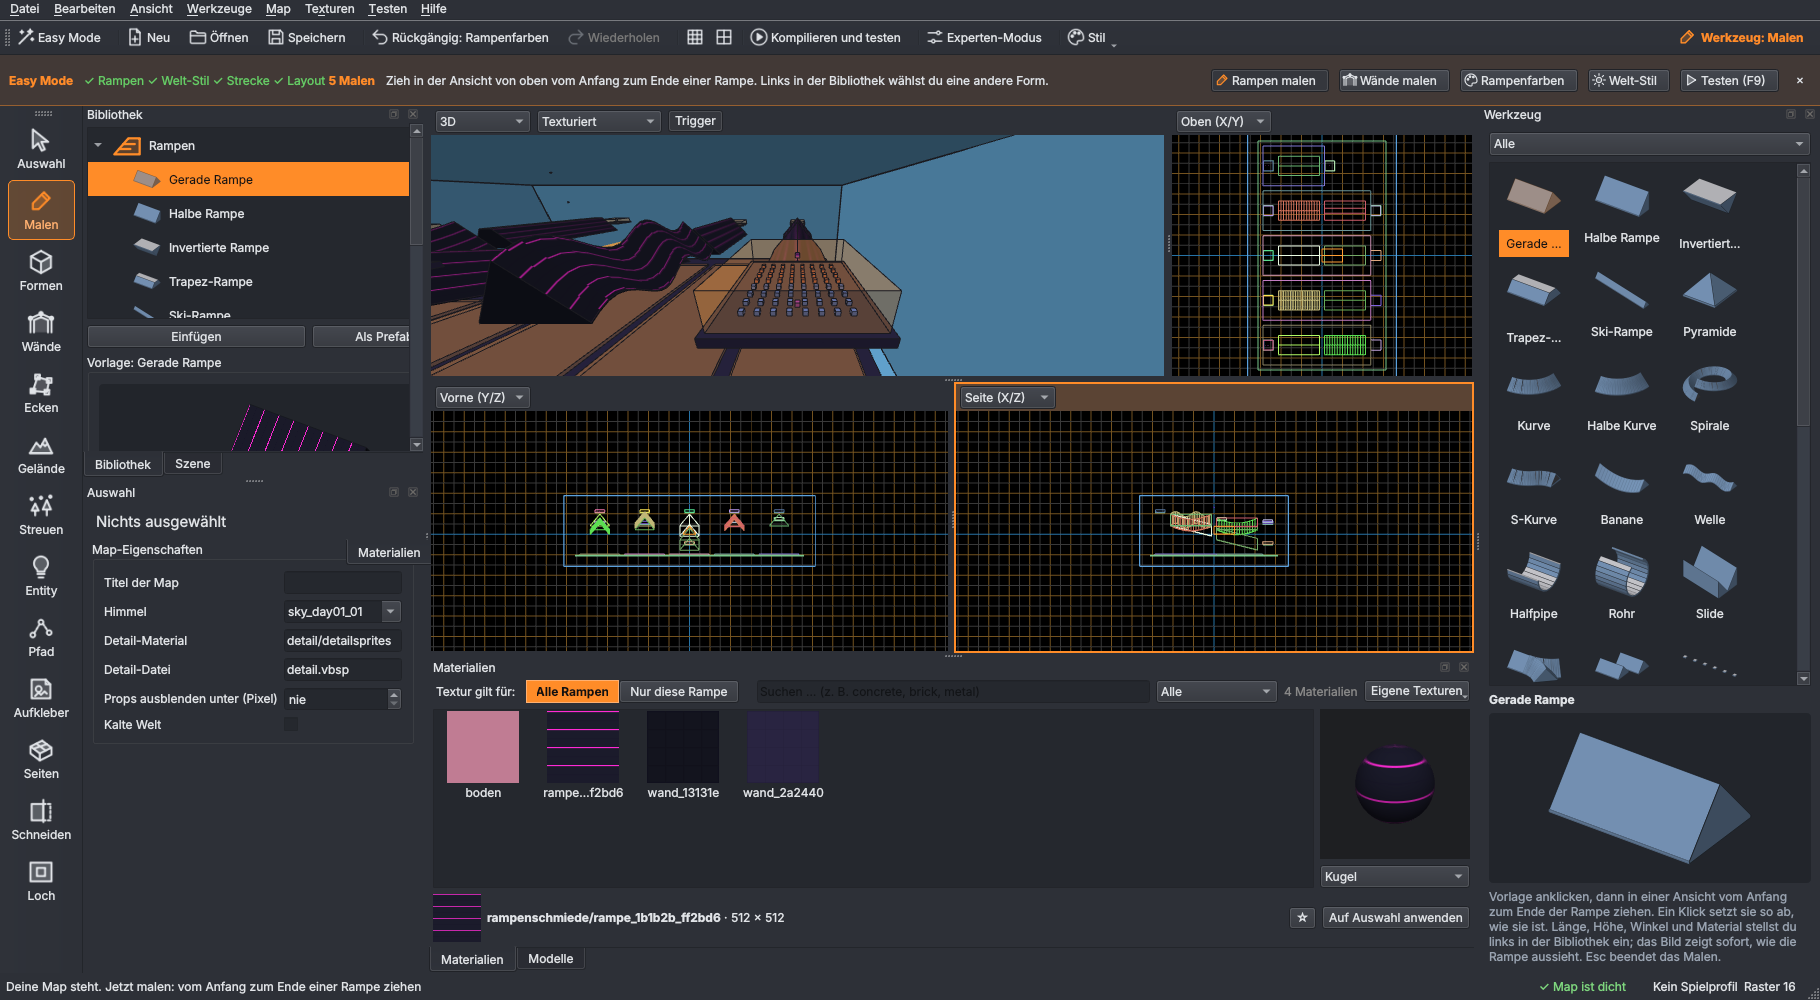
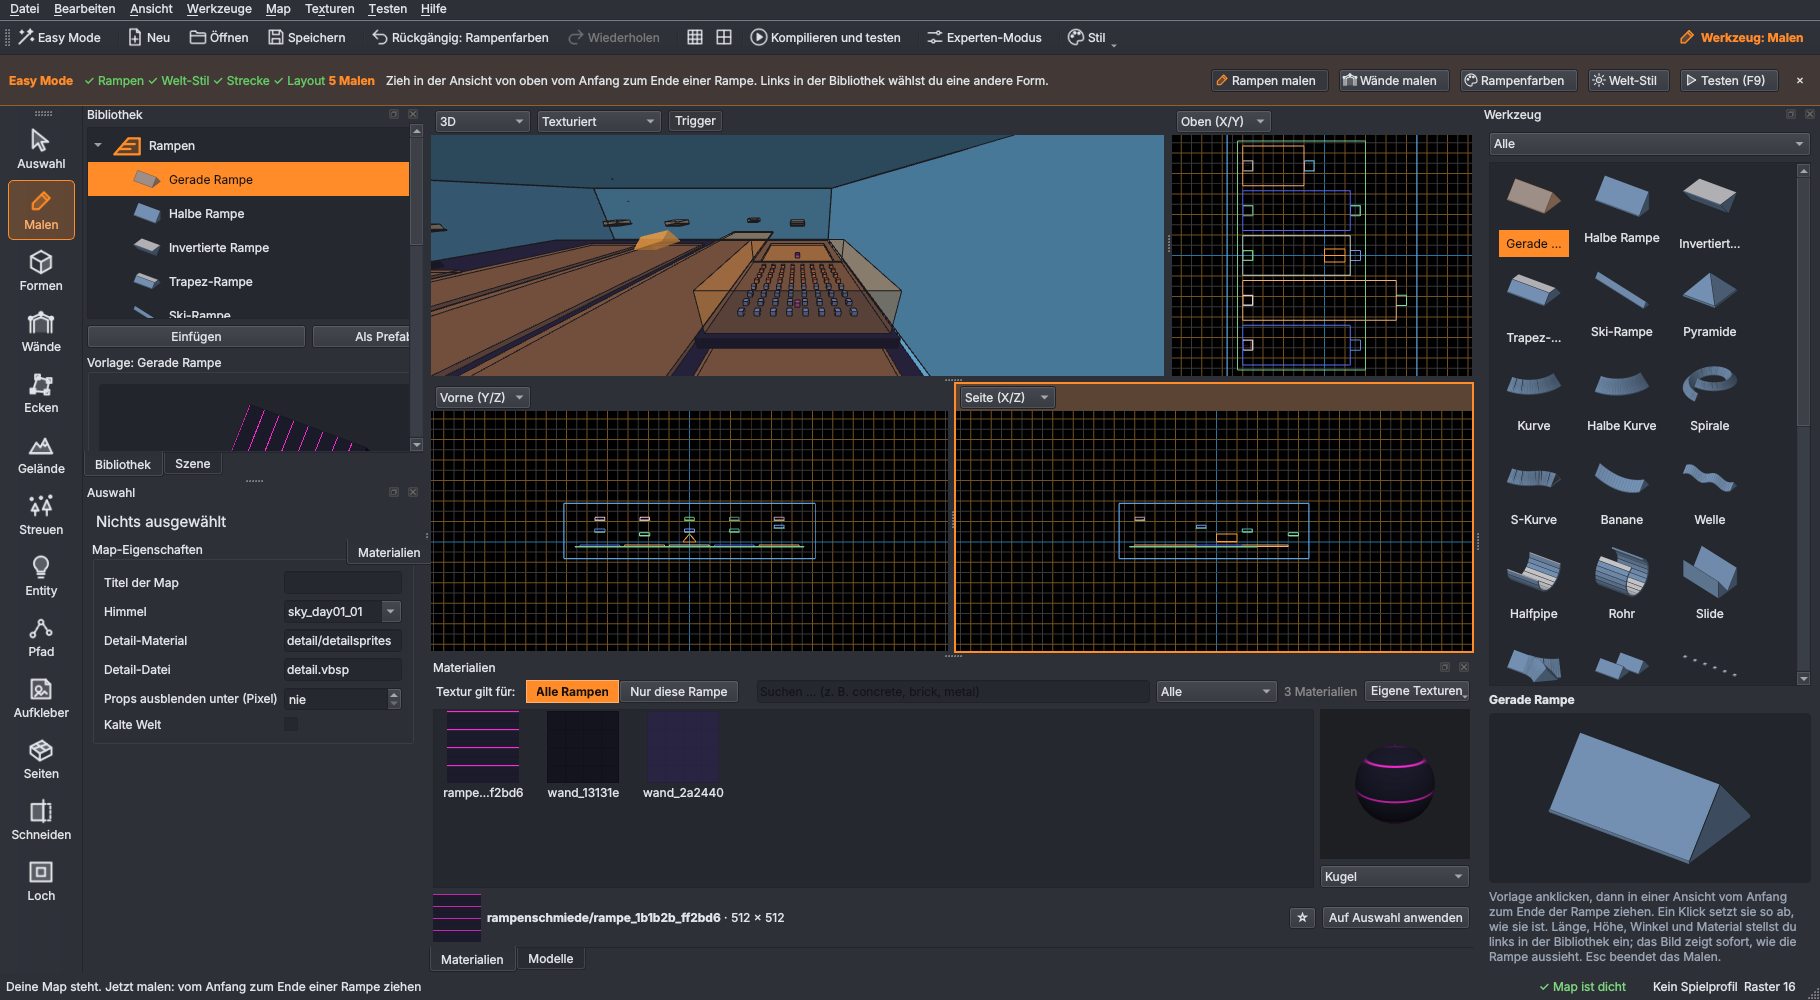
Easy Mode baut nur den Rahmen, Rampen malt man selbst (0.26.1)
Der Assistent legt Start, Stages mit Zonen und Teleportern und die Hülle an
und lässt je Stage freien Platz. Keine vorab festgelegten oder abwechselnden
Rampen mehr; die Form wählt man beim Malen. Der Layout-Manager fragt nur
Name und Platz je Stage, der Plan zeigt den Platz gestrichelt.

Claude-Session: https://claude.ai/code/session_01DJAQrgKBCUycDaenp66hwA

diff --git a/src/rampenschmiede/ui/dialogs/easy_mode.py b/src/rampenschmiede/ui/dialogs/easy_mode.py
@@ -44,10 +44,9 @@ from PySide6.QtWidgets import (
 from ...core.materials.authoring import RGB
 from ...core.materials.styles import STYLE_BY_KEY, STYLES, WorldStyle
 from ...core.surf.catalog import CATALOG
-from ...core.templates import RAMP_KINDS, CourseSpec, PlanItem, SurfMapSettings, plan_surf_map
+from ...core.templates import CourseSpec, PlanItem, SurfMapSettings, plan_surf_map
 from ...i18n import N_
 from ..icons import ACTIVE
-from ..widgets.template_preview import template_pixmap
 from .ramp_assistant import PRESETS, _ColorButton, pil_pixmap, textured_ramp
 from .surf_wizard import GAMES
 from .world_styles import StyleGallery, style_preview
@@ -344,7 +343,7 @@ class CoursePage(QWidget):
         form = QFormLayout()
         self.stages = _spin(1, 12, d.stages)
         self.ramps = _spin(1, 8, d.ramps_per_stage)
-        self.ramps_label = QLabel(self.tr("Rampen pro Stage"))
+        self.ramps_label = QLabel(self.tr("Platz für Rampen pro Stage"))
         self.stages_label = QLabel(self.tr("Stages"))
         self.bonuses = _spin(0, 4, 0)
         self.difficulty = QComboBox()
@@ -399,7 +398,7 @@ class CoursePage(QWidget):
     def _kind_toggled(self, staged: bool) -> None:
         self.stages.setVisible(staged)
         self.stages_label.setVisible(staged)
-        self.ramps_label.setText(self.tr("Rampen pro Stage") if staged else self.tr("Rampen"))
+        self.ramps_label.setText(self.tr("Platz für Rampen pro Stage") if staged else self.tr("Platz für Rampen"))
         # Linear: eine lange Strecke mit mehr Rampen; zurück zu Stages: wieder wenige je Stage
         if not staged and self.ramps.value() < 4:
             self.ramps.setValue(6)
@@ -474,12 +473,23 @@ class LayoutPlan(QWidget):
             if item.kind == "ramp":
                 # Jede Rampenform eigene Farbe: man sieht, dass die Rampen abwechseln
                 color = KIND_COLORS.get(item.label, color)
-            p.setPen(QPen(color.darker(160), 1))
-            p.setBrush(color)
+            if item.kind == "space":
+                # Leerer Platz, auf den man die Rampen selbst malt
+                p.setPen(QPen(QColor(255, 140, 40, 200), 1.5, Qt.DashLine))
+                p.setBrush(QColor(255, 140, 40, 28))
+            else:
+                p.setPen(QPen(color.darker(160), 1))
+                p.setBrush(color)
             p.drawRoundedRect(rect(item.rect), 3, 3)
         p.setPen(QColor(235, 238, 242))
         for item in self.items:
-            if item.kind == "ramp" and item.label in CATALOG:
+            if item.kind == "space":
+                r = rect(item.rect)
+                if r.width() > 50:
+                    p.setPen(QColor(255, 170, 90))
+                    p.drawText(r, Qt.AlignCenter | Qt.TextWordWrap, self.tr("Rampe malen"))
+                    p.setPen(QColor(235, 238, 242))
+            elif item.kind == "ramp" and item.label in CATALOG:
                 r = rect(item.rect)
                 if r.width() > 40:
                     p.setPen(QColor(20, 22, 26))
@@ -496,14 +506,13 @@ class LayoutPlan(QWidget):
 
 
 class _Course:
-    """Eine Zeile im Layout-Manager: Stage oder Bonus mit Name, Rampenzahl und einer Form je Rampe."""
+    """Eine Zeile im Layout-Manager: Stage oder Bonus mit Name und Platz für Rampen."""
 
     def __init__(self, track: int, item: QTreeWidgetItem, name: QLineEdit, count: QSpinBox) -> None:
         self.track = track
         self.item = item
         self.name = name
         self.count = count
-        self.kinds: list[QComboBox] = []
 
 
 class LayoutPage(QWidget):
@@ -513,16 +522,18 @@ class LayoutPage(QWidget):
         super().__init__(parent)
         lay = QVBoxLayout(self)
         lay.addWidget(_title(self.tr("4. Layout-Manager: So liegt deine Map")))
-        lay.addWidget(_hint(self.tr("Gib jeder Stage und jedem Bonus einen Namen und wähle für jede Rampe ihre Form. "
-                                    "Der Plan rechts zeigt die Map von oben, jede Rampe mit ihrem Namen.")))
+        lay.addWidget(_hint(self.tr("Gib jeder Stage und jedem Bonus einen Namen und sag, wie viel Platz sie für "
+                                    "Rampen braucht. Die Rampen selbst malst du danach, so wie du sie haben willst. "
+                                    "Gestrichelt im Plan: dort malst du.")))
         body = QHBoxLayout()
         left = QVBoxLayout()
         self.tree = QTreeWidget()
         self.tree.setColumnCount(2)
-        self.tree.setHeaderLabels([self.tr("Name"), self.tr("Rampen / Form")])
+        self.tree.setHeaderLabels([self.tr("Name"), self.tr("Platz für Rampen")])
         self.tree.header().setSectionResizeMode(0, QHeaderView.Stretch)
         self.tree.header().setSectionResizeMode(1, QHeaderView.Stretch)
         self.tree.setSelectionMode(QAbstractItemView.NoSelection)
+        self.tree.setRootIsDecorated(False)
         self.tree.setMinimumWidth(420)
         left.addWidget(self.tree, 1)
         arrange = QFormLayout()
@@ -552,8 +563,6 @@ class LayoutPage(QWidget):
 
         self.courses: list[_Course] = []
         self.linear = False
-        #: Form neuer Rampen (aus Schritt 1)
-        self.default_kind = "gerade"
         self.layout_combo.currentIndexChanged.connect(lambda *_: self.changed.emit())
         self.add_stage.clicked.connect(lambda: self._add(0))
         self.remove_stage.clicked.connect(lambda: self._remove(0))
@@ -584,27 +593,6 @@ class LayoutPage(QWidget):
         self.add_bonus.setEnabled(len(self._of(True)) < 4)
         self.layout_combo.setEnabled(not self.linear and stages > 1)
 
-    def _kind_combo(self, kind: str) -> QComboBox:
-        combo = QComboBox()
-        for key in RAMP_KINDS:
-            combo.addItem(QIcon(template_pixmap(key, None, 32)), self.tr(CATALOG[key].name), key)
-        combo.setCurrentIndex(max(0, combo.findData(kind)))
-        combo.currentIndexChanged.connect(lambda *_: self.changed.emit())
-        return combo
-
-    def _set_count(self, course: _Course, n: int) -> None:
-        """Eine Unterzeile je Rampe: „Rampe 1  [Form]“. Neue Rampen nehmen die Form der vorigen."""
-        while len(course.kinds) < n:
-            kind = course.kinds[-1].currentData() if course.kinds else self.default_kind
-            child = QTreeWidgetItem(course.item, [self.tr("Rampe {0}").format(len(course.kinds) + 1)])
-            combo = self._kind_combo(kind)
-            self.tree.setItemWidget(child, 1, combo)
-            course.kinds.append(combo)
-        while len(course.kinds) > n:
-            course.kinds.pop()
-            course.item.removeChild(course.item.child(course.item.childCount() - 1))
-        course.item.setExpanded(True)
-
     def _insert(self, track: int, spec: CourseSpec) -> None:
         index = len(self.courses) if track else len(self._of(False))
         item = QTreeWidgetItem()
@@ -612,14 +600,12 @@ class LayoutPage(QWidget):
         name = QLineEdit(spec.name)
         name.textChanged.connect(lambda *_: self.changed.emit())
         count = _spin(1, 12 if self.linear and not track else 8, spec.ramps, suffix=self.tr(" Rampen"))
+        count.setToolTip(self.tr("So viel Platz bekommt die Stage: je Rampe eine Rampenlänge"))
         course = _Course(1 if track else 0, item, name, count)
         self.courses.insert(index, course)
         self.tree.setItemWidget(item, 0, name)
         self.tree.setItemWidget(item, 1, count)
-        self._set_count(course, spec.ramps)
-        for combo, kind in zip(course.kinds, spec.kinds):
-            combo.setCurrentIndex(max(0, combo.findData(kind)))
-        count.valueChanged.connect(lambda n, c=course: (self._set_count(c, n), self.changed.emit()))
+        count.valueChanged.connect(lambda *_: self.changed.emit())
 
     def _add(self, track: int) -> None:
         self._insert(track, CourseSpec(ramps=1 if track else 2))
@@ -661,8 +647,7 @@ class LayoutPage(QWidget):
     def specs(self) -> tuple[tuple[CourseSpec, ...], tuple[CourseSpec, ...]]:
         stages, bonuses = [], []
         for c in self.courses:
-            kinds = tuple(k.currentData() for k in c.kinds)
-            spec = CourseSpec(c.name.text().strip(), len(kinds), kinds[0] if kinds else "", kinds)
+            spec = CourseSpec(c.name.text().strip(), c.count.value())
             (bonuses if c.track else stages).append(spec)
         return tuple(stages), tuple(bonuses)
 
@@ -678,8 +663,8 @@ class LayoutPage(QWidget):
         else:
             xs = [c for i in items for c in (i.rect[0], i.rect[2])]
             ys = [c for i in items for c in (i.rect[1], i.rect[3])]
-            ramps = sum(1 for i in items if i.kind == "ramp")
-            self.size_label.setText(self.tr("✓ Passt: {0} Rampen, etwa {1} × {2} Units (Source erlaubt 32768)").format(
+            ramps = sum(1 for i in items if i.kind in ("ramp", "space"))
+            self.size_label.setText(self.tr("✓ Passt: Platz für {0} Rampen, etwa {1} × {2} Units (Source erlaubt 32768)").format(
                 ramps, round(max(xs) - min(xs)), round(max(ys) - min(ys))))
             self.size_label.setStyleSheet("color: #6c6; font-weight: bold;")
         return error
@@ -692,10 +677,10 @@ class PaintPage(QWidget):
         super().__init__(parent)
         lay = QVBoxLayout(self)
         lay.addWidget(_title(self.tr("5. Jetzt deine Map malen")))
-        lay.addWidget(_hint(self.tr("Mit „Map bauen“ entsteht deine Strecke: Start mit Spawn, Stages, Zonen, "
-                                    "Teleporter und eine dichte Skybox. Danach ist das Malen-Werkzeug mit deiner "
-                                    "Rampe aktiv: Zieh in einer Ansicht vom Anfang zum Ende, und die Rampe ist da. "
-                                    "Oben führt dich eine Leiste durch die nächsten Schritte.")))
+        lay.addWidget(_hint(self.tr("Mit „Map bauen“ entsteht der Rahmen deiner Map: Start mit Spawn, Stages mit "
+                                    "Zonen und Teleportern, eine dichte Skybox. Die Rampen malst du selbst: Form links "
+                                    "anklicken, in der Ansicht vom Anfang zum Ende ziehen. Für jede Rampe kannst du "
+                                    "eine andere Form nehmen. Oben führt dich eine Leiste durch die nächsten Schritte.")))
         body = QHBoxLayout()
         self.summary = QLabel()
         self.summary.setWordWrap(True)
@@ -820,6 +805,7 @@ class EasyModeWizard(QDialog):
 
     def settings(self) -> SurfMapSettings:
         s = self.course.base_settings("gerade")
+        s.with_ramps = False  # nur der Rahmen, die Rampen malt man selbst
         stages, bonuses = self.layout_page.specs()
         s.stage_specs = stages
         s.stages = len(stages)
@@ -838,9 +824,7 @@ class EasyModeWizard(QDialog):
         stages, bonuses = s.stage_specs, s.bonuses
         names = ", ".join(spec.name or self.tr("Stage {0}").format(i) for i, spec in enumerate(stages, 1))
         rows = [
-            (self.tr("Rampen"), self.tr("{0}, Textur „{1}“").format(
-                ", ".join(self.tr(CATALOG[k].name) for k in s.kinds_used()),
-                                                                    self.ramps.texture_name())),
+            (self.tr("Rampen"), self.tr("Textur „{0}“, du malst sie selbst").format(self.ramps.texture_name())),
             (self.tr("Welt-Stil"), self.tr(style.name)),
             (self.tr("Strecke"), self.tr("Linear mit {0} Rampen").format(stages[0].ramps) if self.course.is_linear()
              else self.tr("{0} Stages: {1}").format(len(stages), names)),
@@ -851,7 +835,7 @@ class EasyModeWizard(QDialog):
         ]
         self.paint.summary.setText("<table cellspacing=6>" + "".join(
             f"<tr><td><b>{k}</b></td><td>{v}</td></tr>" for k, v in rows) + "</table>")
-        self.paint.preview.show_ramps(s.kinds_used()[:4], ramp, lines, style)
+        self.paint.preview.show_ramps(list(PREVIEW_KINDS), ramp, lines, style)
         self.paint.plan.set_plan(self.layout_page.plan.items, self.layout_page.plan.error)
 
     def choice(self) -> EasyResult:

diff --git a/tests/ui/test_easy_mode_ui.py b/tests/ui/test_easy_mode_ui.py
@@ -42,14 +42,9 @@ def test_wizard_walks_through_the_steps_and_plans_the_map(qtbot):
     assert dlg.stack.currentIndex() == 3
     page = dlg.layout_page
     assert len(page.courses) == 5 and [c.track for c in page.courses] == [0, 0, 0, 1, 1]
-    # Jede Rampe steht einzeln da und bekommt ihre eigene Form
     first = page.courses[0]
-    assert first.item.childCount() == 2 and first.item.child(0).text(0) == "Rampe 1"
     first.name.setText("Eingang")
-    first.kinds[1].setCurrentIndex(first.kinds[1].findData("banane"))
     page.courses[1].count.setValue(3)
-    assert len(page.courses[1].kinds) == 3
-    page.courses[1].kinds[2].setCurrentIndex(page.courses[1].kinds[2].findData("ski"))
     page.courses[3].name.setText("Kurz")
     dlg.layout_page.layout_combo.setCurrentIndex(1)
     dlg._update_plan()
@@ -63,8 +58,9 @@ def test_wizard_walks_through_the_steps_and_plans_the_map(qtbot):
     assert choice.style == "neon" or choice.style  # sechster Stil
     assert s.layout == "reihen" and s.angle == DIFFICULTY["schwer"][1]
     assert [st.name for st in s.stage_specs] == ["Eingang", "", ""]
-    assert s.stage_specs[0].kinds == ("gerade", "banane")
-    assert s.stage_specs[1].kinds == ("gerade", "gerade", "ski") and s.stage_specs[1].ramps == 3
+    # Nur der Rahmen: Die Rampen malt man selbst, die Stages haben Platz dafür
+    assert not s.with_ramps and s.stage_specs[1].ramps == 3
+    assert any(i.kind == "space" for i in page.plan.items) and not any(i.kind == "ramp" for i in page.plan.items)
     assert [b.name for b in s.bonuses] == ["Kurz", ""]
 
 
@@ -94,13 +90,14 @@ def test_easy_map_is_built_styled_and_ready_to_paint(window, qtbot):
     assert window.easy_bar.buttons["start"].isVisibleTo(window.easy_bar)
     assert not window.easy_bar.buttons["paint"].isVisibleTo(window.easy_bar)
     _name, ramp, lines, _wall = PRESETS[1]
-    settings = SurfMapSettings(game="css", stage_specs=(CourseSpec("Eingang", 1, kinds=("welle",)), CourseSpec("", 1)),
+    settings = SurfMapSettings(game="css", with_ramps=False, stage_specs=(CourseSpec("Eingang", 1), CourseSpec("", 1)),
                                bonuses=(CourseSpec("Kurz", 1),))
     assert window.build_easy_map(EasyResult(ramp, lines, "eis", settings))
     doc = window.editor.doc
     assert window.seal.check_now().sealed
     assert window.editor.tool.name == "paint"
-    assert window.library.current_key() == "welle"
+    assert window.library.current_key() == "gerade"
+    assert not any((block_info(e) or {}).get("template") in ("gerade", "welle") for e in doc.entities())
     theme = get_theme(doc)
     assert theme.colors["ramp"] == "#{:02x}{:02x}{:02x}".format(*ramp)
     names = {parse_zone_name(e.get("targetname") or ""): (block_info(e) or {}).get("values", {}).get("name")

diff --git a/src/rampenschmiede/core/templates/surf_map.py b/src/rampenschmiede/core/templates/surf_map.py
@@ -79,6 +79,9 @@ class SurfMapSettings:
     stage_specs: tuple[CourseSpec, ...] = ()
     #: Bonus-Strecken (Bonus 1, 2, …), jede in einer eigenen Reihe
     bonuses: tuple[CourseSpec, ...] = field(default_factory=tuple)
+    #: False: nur der Rahmen (Plattformen, Zonen, Teleporter, Hülle); den Platz für die Rampen
+    #: malt man selbst (Easy Mode). `ramps` zählt dann die Rampen-Plätze einer Stage.
+    with_ramps: bool = True
 
     def stage_list(self) -> list[CourseSpec]:
         if self.stage_specs:
@@ -208,10 +211,10 @@ def new_surf_map(doc: MapDocument, s: SurfMapSettings, plan: list[PlanItem] | No
             kind = s.kind_of(spec, index)
             values, height, drop_along = _ramp_setup(s, kind)
             anchor_z = int(ramp_top - height)
-            if not _plan_only:
+            if s.with_ramps and not _plan_only:
                 ramp, _gen = build_block(doc, kind, values, Placement(x, y, anchor_z, 0))
                 objs.extend(ramp)
-            note("ramp", x, y, x + s.ramp_length, half_w, kind, track)
+            note("ramp" if s.with_ramps else "space", x, y, x + s.ramp_length, half_w, kind, track)
             lowest = min(lowest, anchor_z + min(0, drop_along))
             x += s.ramp_length + s.gap
             ramp_top += drop_along - s.drop

diff --git a/tests/templates/test_surf_map_layout.py b/tests/templates/test_surf_map_layout.py
@@ -85,3 +85,14 @@ def test_every_ramp_gets_the_shape_chosen_for_it():
     placed = sorted(((block_info(e)["placement"][1], block_info(e)["placement"][0]), block_info(e)["template"])
                     for e in doc.entities() if (block_info(e) or {}).get("template") in ("gerade", "banane", "welle", "ski"))
     assert [k for _pos, k in placed] == ["gerade", "gerade", "welle", "ski", "banane"]
+
+
+def test_frame_only_leaves_room_to_paint_ramps():
+    doc = build(game="css", stages=3, ramps_per_stage=2, with_ramps=False, bonuses=(CourseSpec("", 1),))
+    assert check_seal(doc).sealed
+    assert not any((block_info(e) or {}).get("template") in ("gerade", "banane", "welle", "ski", "trapez")
+                   for e in doc.entities())
+    z = zones(doc)
+    assert {("start", 0, 0), ("stage", 0, 2), ("stage", 0, 3), ("end", 0, 0), ("start", 1, 0)} <= set(z)
+    # Fall-Teleporter decken den Platz für die Rampen ab
+    assert sum(1 for e in doc.entities() if e.classname == "trigger_teleport") == 4

diff --git a/src/rampenschmiede/ui/main_window.py b/src/rampenschmiede/ui/main_window.py
@@ -807,7 +807,8 @@ class MainWindow(QMainWindow):
                                                walls=False, remember=True))
         self.editor.stack.set_clean()
         self.editor.set_selection(())
-        self.library.select_template(result.settings.kinds_used()[0])
+        # Rampen malt man selbst: Malen mit der geraden Rampe vorgewählt, jede andere Form ist einen Klick weg
+        self.library.select_template("gerade")
         self.editor.set_tool("paint")
         self.settings.setValue("easy_welcome_done", "true")
         self.easy_bar.guide("paint")

diff --git a/src/rampenschmiede/__init__.py b/src/rampenschmiede/__init__.py
@@ -1,3 +1,3 @@
 """Rampenschmiede: Map-Editor für Surf-, Bhop- und Trick-Maps."""
 
-__version__ = "0.26.0"
+__version__ = "0.26.1"

diff --git a/README.md b/README.md
@@ -4,7 +4,7 @@ Desktop-Map-Editor für Windows, spezialisiert auf Surf-, Bhop- und Trick-Maps f
 Counter-Strike: Source und Momentum Mod. Ziel: Ein Anfänger baut in 30 Minuten eine
 spielbare Surf-Map, ein Profi vermisst keine Funktion aus Hammer.
 
-> **Stand: Version 0.26.0** – alle Etappen des Plans plus die Hammer-Pakete: 3D- und 2D-Ansichten,
+> **Stand: Version 0.26.1** – alle Etappen des Plans plus die Hammer-Pakete: 3D- und 2D-Ansichten,
 > Easy Mode (geführt zur eigenen Map), Rampen-Bibliothek mit Reglern, Assistent „Neue Surf-Map“, Zeitnahme-Zonen für CS:S-Timer und Momentum,
 > Kompilieren und Testen mit F9, Texturen und Welt-Stile, Entities mit FGD und I/O, Licht-Vorschau,
 > Himmel und 3D-Skybox, Props, Gelände, Natur, Cordon, Instanzen, automatische Sicherung, Oberfläche
@@ -59,12 +59,12 @@ Einstieg in fünf Schritten:
    die Rampenfarben vom Stil.
 3. **Strecke:** mit Stages oder linear, wie viele Stages und Rampen, Bonusse, Schwierigkeit
    (Leicht/Mittel/Schwer stellt Winkel, Lücken und Abfall), Spiel. Feineinstellungen für Profis.
-4. **Layout-Manager:** jede Stage und jeden Bonus benennen (z. B. „Lava-Raum“), Rampenzahl, und für
-   jede einzelne Rampe ihre Form (Rampe 1: Gerade, Rampe 2: Banane …), Anordnung *hintereinander* oder *in Reihen nebeneinander* (dann bringt ein
+4. **Layout-Manager:** jede Stage und jeden Bonus benennen (z. B. „Lava-Raum“), Platz für Rampen, Anordnung *hintereinander* oder *in Reihen nebeneinander* (dann bringt ein
    Teleporter am Stage-Ende zur nächsten Stage). Ein Plan von oben zeigt live, wie die Map liegt und
    ob sie in die Grenzen von Source passt.
-5. **Malen:** „Map bauen und malen“ erzeugt die Map (Spawn, Zonen mit Namen, Teleporter, dichte
-   Skybox), wendet Stil und Rampentextur an und schaltet das Malen-Werkzeug mit deiner Rampe ein.
+5. **Malen:** „Map bauen und malen“ erzeugt den Rahmen der Map (Spawn, Stages mit benannten Zonen,
+   Teleporter, dichte Skybox), wendet Stil und Rampentextur an und schaltet das Malen-Werkzeug ein.
+   Die Rampen malst du selbst in den freien Platz, jede mit der Form, die du gerade willst.
 
 Danach führt eine Leiste oben weiter: was erledigt ist, was jetzt zu tun ist, und Knöpfe für
 Rampen malen, Wände malen, Rampenfarben, Welt-Stil und Testen (F9). Beim ersten Start lädt sie

diff --git a/docs/entscheidungen.md b/docs/entscheidungen.md
@@ -132,3 +132,4 @@ werden vorher mit Flavio abgestimmt und hier mit „abgestimmt“ markiert.
 | E124 | 2026-11-03 | Easy Mode als eigener Assistent in fünf Schritten (Rampen, Welt-Stil, Strecke, Layout, Malen) zusätzlich zum normalen Editor; danach Leiste oben mit Fortschritt, Hinweis zum aktiven Werkzeug und Knöpfen | Flavio fand den Weg zur Map zu kompliziert und wollte „abgeholt“ werden; Profis behalten den bisherigen Ablauf |
 | E125 | 2026-11-03 | „Layout-Manager“ gelesen als Plan der Strecke: Stages/Bonusse einzeln (Name, Rampen, Rampenform), Anordnung hintereinander oder in Reihen (Teleporter am Stage-Ende), Bonusse je eigene Reihe; Live-Plan von oben ohne Rampen-Geometrie | Fensteranordnung gibt es schon (Ansicht → Layout zurücksetzen); in Reihen passen viele Stages in die Source-Grenzen, wie auf Stage-Maps üblich |
 | E126 | 2026-11-03 | Rampenvorschau texturiert: Ortho-Projektion, Textur je Fläche per QTransform, Linien quer zur Fahrtrichtung, 512 Units je Wiederholung | Flavio wollte sehen, wie Rampen mit Texturen aussehen, bevor er sie anwendet; ohne OpenGL, geht in Listen und Symbolen |
+| E127 | 2026-11-03 | Easy Mode baut nur den Rahmen (Plattformen, Zonen, Teleporter, Hülle) mit freiem Platz je Stage; Rampen malt man selbst, Form beim Malen; Plan zeigt den Platz gestrichelt | Flavio: Rampen vorher festlegen („Lego“) oder abwechseln lassen ergibt keinen Sinn, man weiß erst beim Malen, wie die Rampe sein soll |
